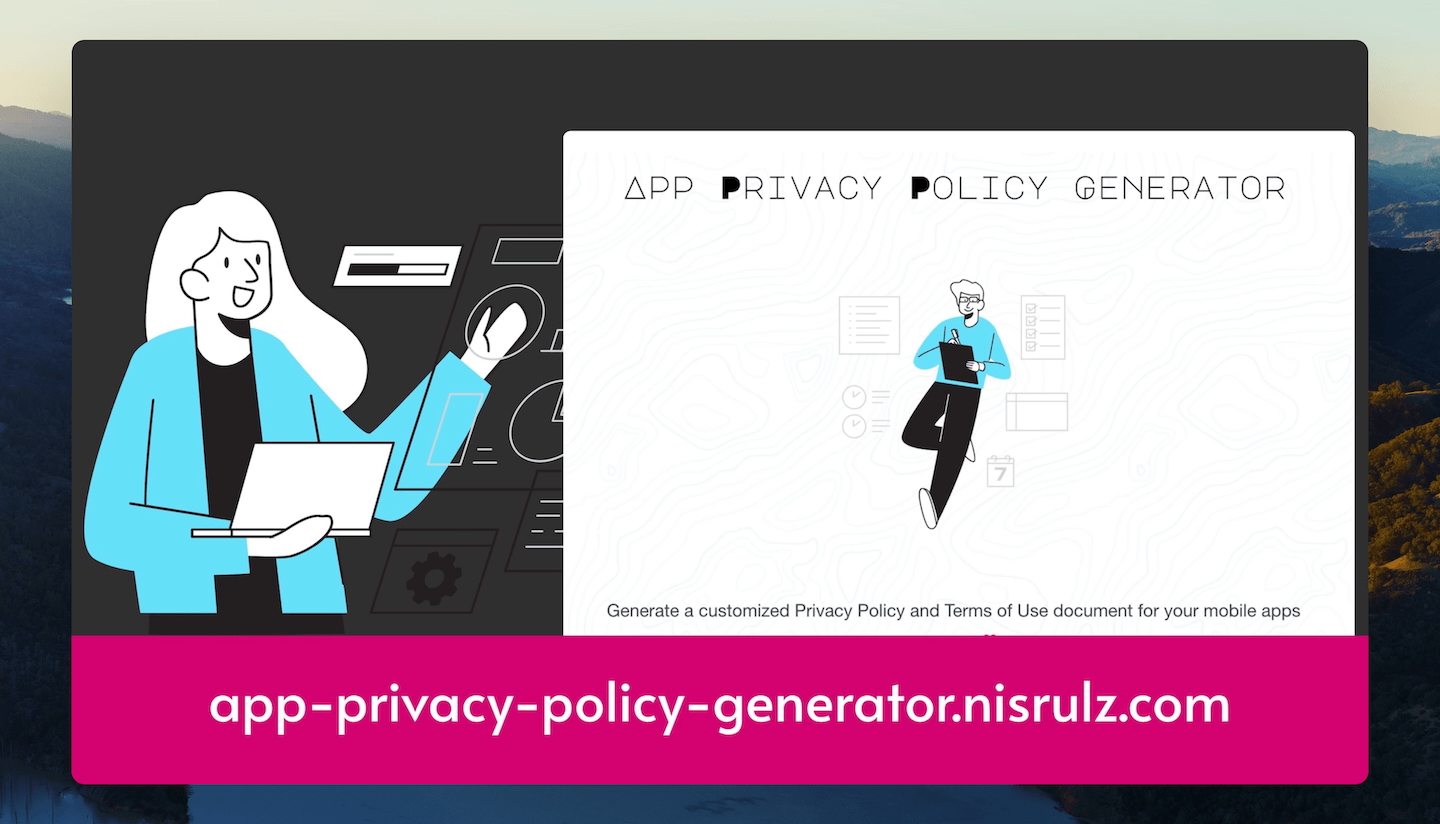
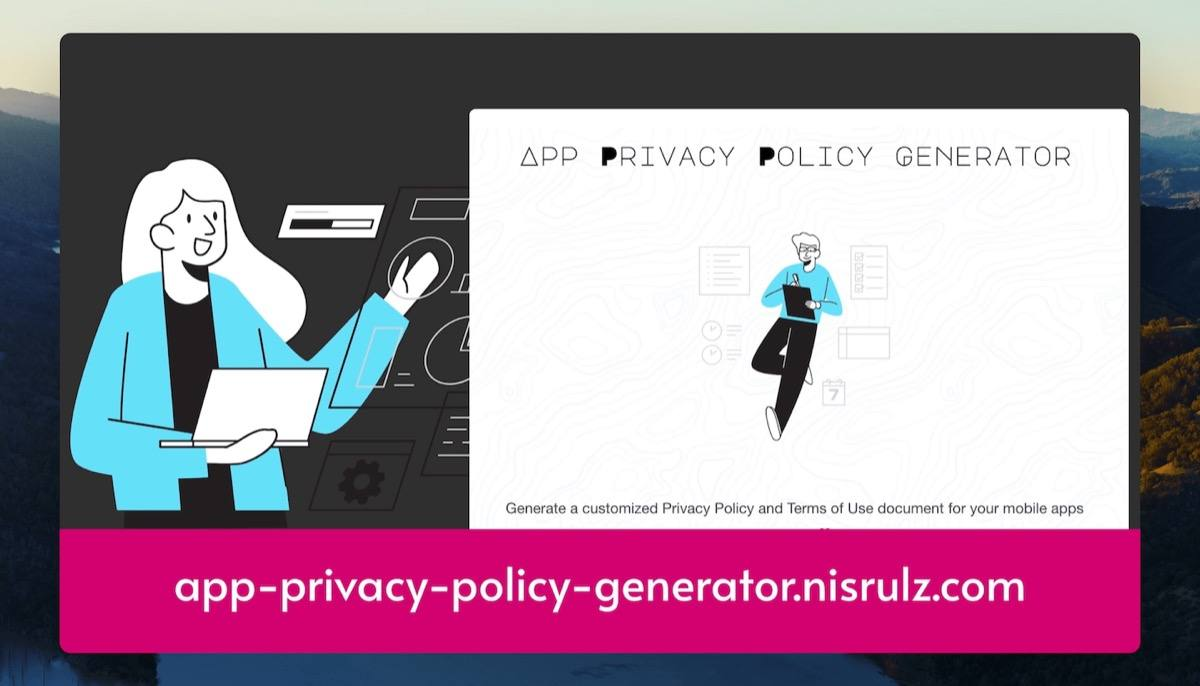
perf(images): shrink social link preview image
link_preview.jpg was 486KB at 1440x824. Social crawlers and preview bots
fetch it on every share, which adds bandwidth for no user benefit. Resize to
1200x686 and encode progressive with libjpeg-turbo: 59.8KB (88% smaller).
Declare the size with og:image:width and og:image:height so scrapers do not
download it to measure.

diff --git a/public/de/index.html b/public/de/index.html
@@ -75,6 +75,8 @@ along with this program.  If not, see
 <meta property="og:image" content="https://app-privacy-policy-generator.nisrulz.com/images/link_preview.jpg">
 <meta property="og:image:alt" content="App Privacy Policy Generator">
 <meta property="og:image:type" content="image/jpeg">
+<meta property="og:image:width" content="1200">
+<meta property="og:image:height" content="686">
 <meta name="twitter:card" content="summary_large_image">
 <meta property="twitter:domain" content="app-privacy-policy-generator.nisrulz.com">
 <meta property="twitter:url" content="https://app-privacy-policy-generator.nisrulz.com/">

diff --git a/public/index.html b/public/index.html
@@ -75,6 +75,8 @@ along with this program.  If not, see
 <meta property="og:image" content="https://app-privacy-policy-generator.nisrulz.com/images/link_preview.jpg">
 <meta property="og:image:alt" content="App Privacy Policy Generator">
 <meta property="og:image:type" content="image/jpeg">
+<meta property="og:image:width" content="1200">
+<meta property="og:image:height" content="686">
 <meta name="twitter:card" content="summary_large_image">
 <meta property="twitter:domain" content="app-privacy-policy-generator.nisrulz.com">
 <meta property="twitter:url" content="https://app-privacy-policy-generator.nisrulz.com/">

diff --git a/tests/golden/de.html b/tests/golden/de.html
@@ -75,6 +75,8 @@ along with this program.  If not, see
 <meta property="og:image" content="https://app-privacy-policy-generator.nisrulz.com/images/link_preview.jpg">
 <meta property="og:image:alt" content="App Privacy Policy Generator">
 <meta property="og:image:type" content="image/jpeg">
+<meta property="og:image:width" content="1200">
+<meta property="og:image:height" content="686">
 <meta name="twitter:card" content="summary_large_image">
 <meta property="twitter:domain" content="app-privacy-policy-generator.nisrulz.com">
 <meta property="twitter:url" content="https://app-privacy-policy-generator.nisrulz.com/">

diff --git a/tests/golden/en.html b/tests/golden/en.html
@@ -75,6 +75,8 @@ along with this program.  If not, see
 <meta property="og:image" content="https://app-privacy-policy-generator.nisrulz.com/images/link_preview.jpg">
 <meta property="og:image:alt" content="App Privacy Policy Generator">
 <meta property="og:image:type" content="image/jpeg">
+<meta property="og:image:width" content="1200">
+<meta property="og:image:height" content="686">
 <meta name="twitter:card" content="summary_large_image">
 <meta property="twitter:domain" content="app-privacy-policy-generator.nisrulz.com">
 <meta property="twitter:url" content="https://app-privacy-policy-generator.nisrulz.com/">

diff --git a/src/tpl/meta.html b/src/tpl/meta.html
@@ -47,6 +47,8 @@
 <meta property="og:image" content="https://app-privacy-policy-generator.nisrulz.com/images/link_preview.jpg">
 <meta property="og:image:alt" content="App Privacy Policy Generator">
 <meta property="og:image:type" content="image/jpeg">
+<meta property="og:image:width" content="1200">
+<meta property="og:image:height" content="686">
 <meta name="twitter:card" content="summary_large_image">
 <meta property="twitter:domain" content="app-privacy-policy-generator.nisrulz.com">
 <meta property="twitter:url" content="https://app-privacy-policy-generator.nisrulz.com/">
